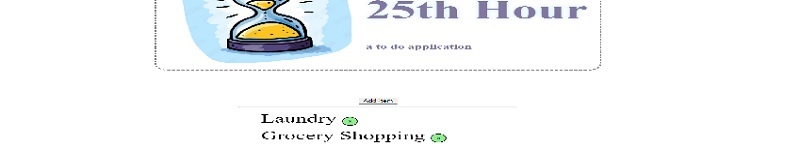
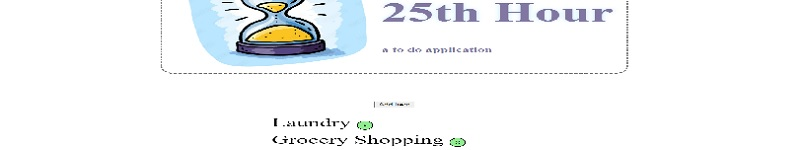
image

diff --git a/README.md b/README.md
@@ -24,7 +24,7 @@ Vanilla js calculator with basic functions add, subtract, divide, and multiply f
 Build you perfect pie and see a responsive reciept and sales total as you do. 
 ## [To Do App](https://github.com/serengetijade/JavaScript/tree/main/ToDo-App)
 Add and remove items to the list.
-![Preview of To Do App](https://github.com/serengetijade/JavaScript/blob/main/Calculator/img/calculator.jpg?raw=truehttps://github.com/serengetijade/JavaScript/blob/main/ToDo-App/img/ToDoApp.jpg?raw=true)
+![Preview of To Do App](https://github.com/serengetijade/JavaScript/blob/main/ToDo-App/img/ToDoApp.jpg?raw=true)
 
 ## REFERENCE CODE LIBRARY:
 In addition to the projects, there is a small code library that is useful for referencing basic elements and design. 
